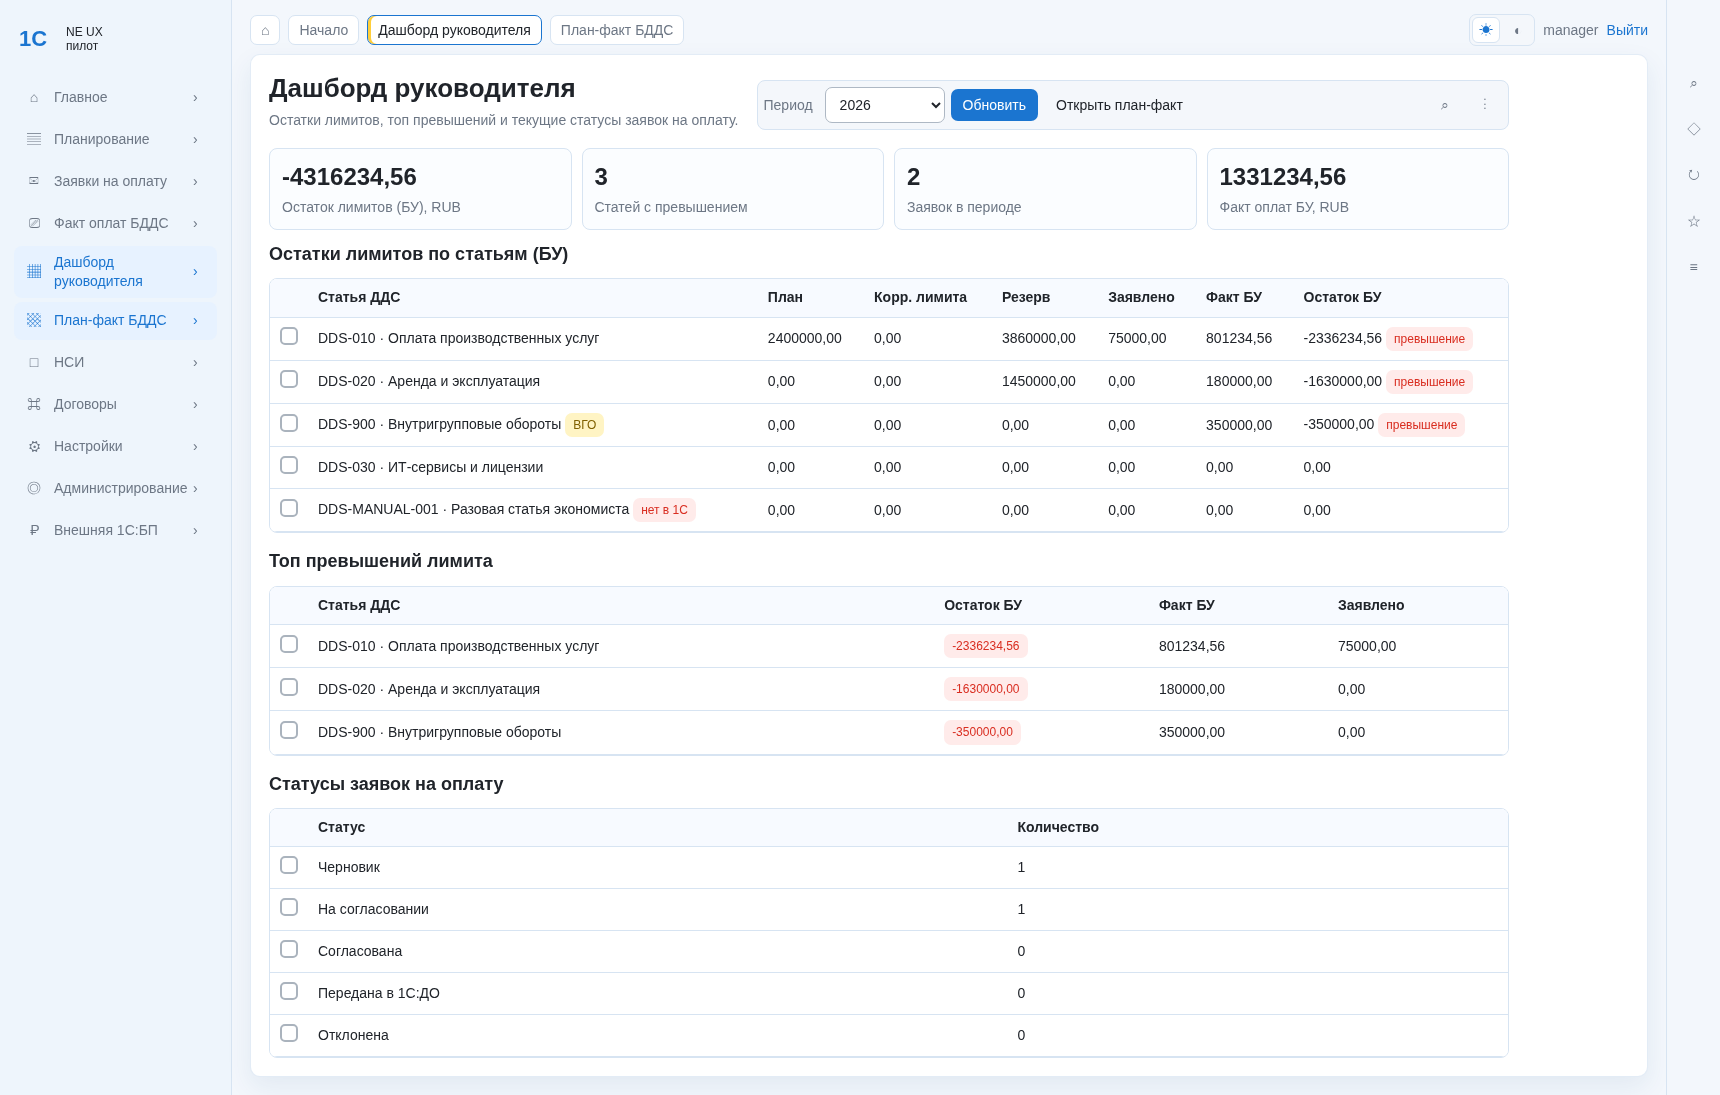
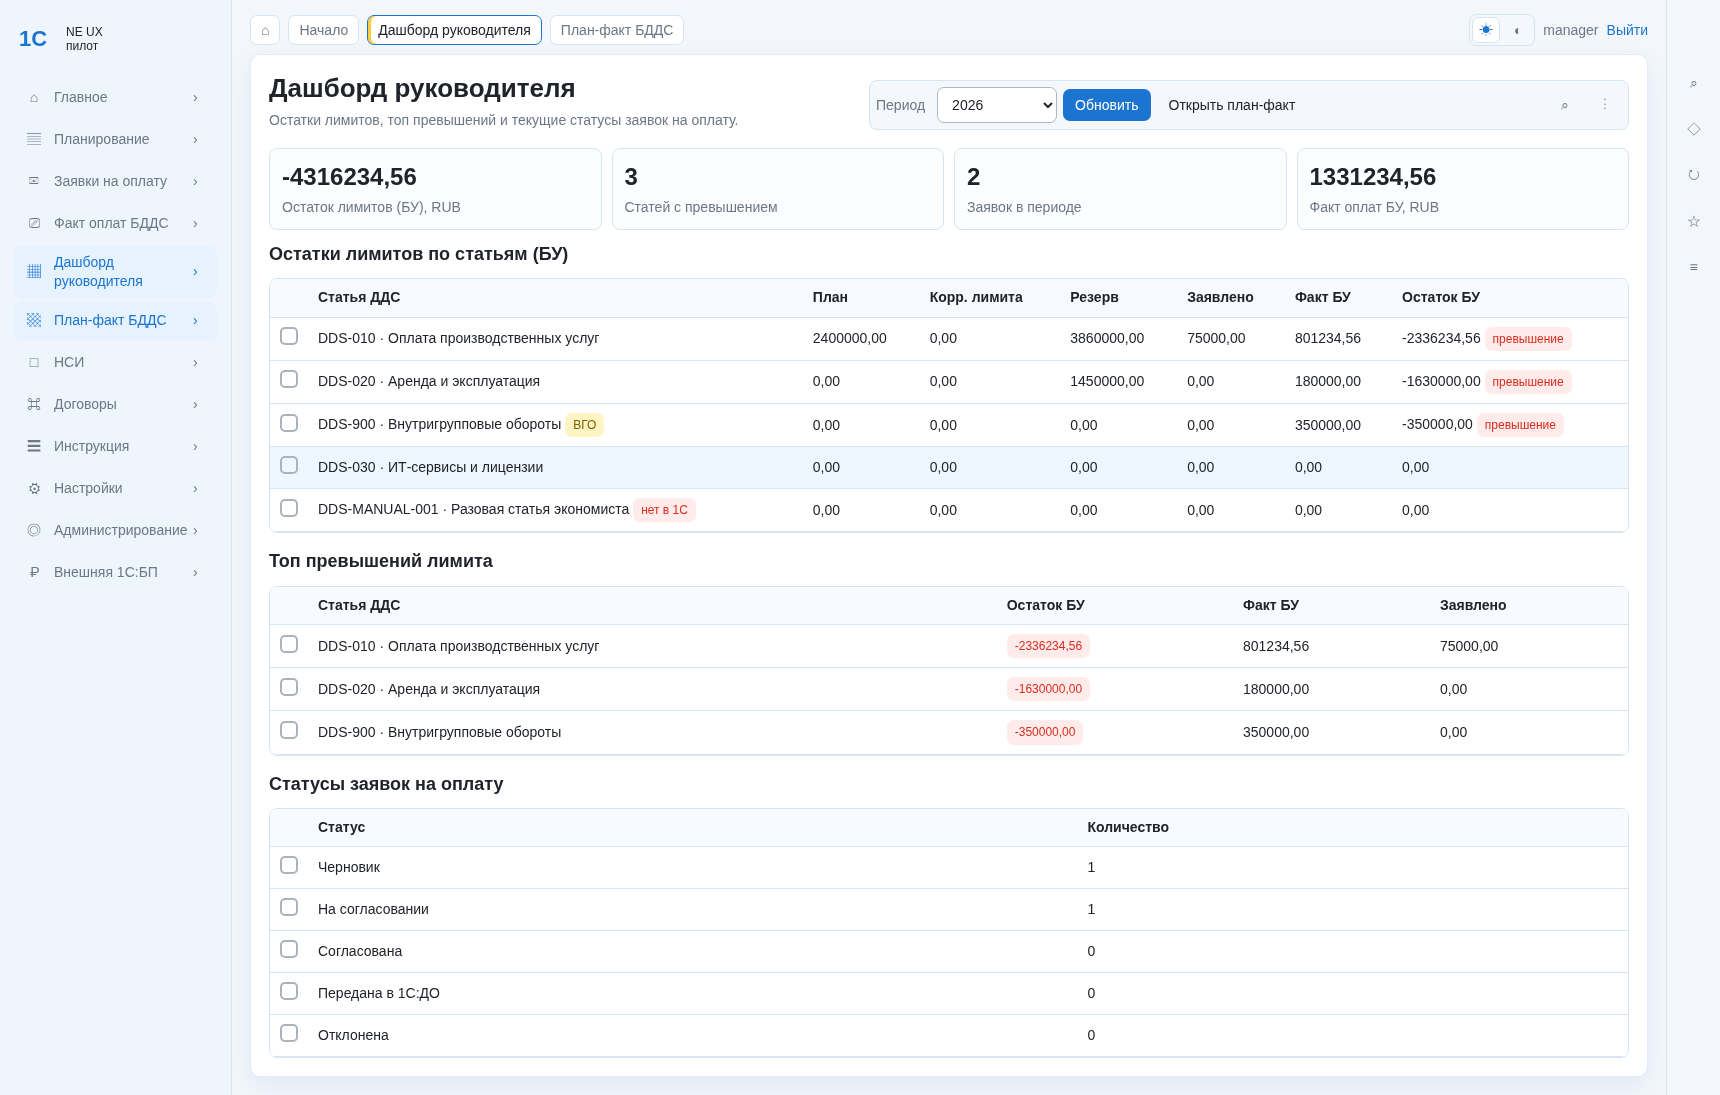
docs(guide): refresh user instruction for new full-width row layout

diff --git a/docs/user-guide/instruction.md b/docs/user-guide/instruction.md
@@ -1,7 +1,9 @@
 # Руководство пользователя и Use Case по ролям
 
+Актуальная версия инструкции для текущего UI (рядная компоновка экранов):
+формы и фильтры расположены в верхних блоках, реестры и таблицы — ниже, на полную рабочую ширину.
+
 Документ описывает работу в системе по ролям: `Администратор`, `Экономист`, `Руководитель`, `Бухгалтер`.
-Для каждого сценария указаны действия и ожидаемый результат.
 
 ## 1. Роли и границы доступа
 
@@ -14,7 +16,19 @@
 
 ---
 
-## 2. Общий сценарий входа (все роли)
+## 2. Как читать экран
+
+Для большинства разделов действует единый UX-паттерн:
+1. Верхняя строка: заголовок раздела и командная панель.
+2. Верхние панели: форма создания/редактирования или фильтры.
+3. Ниже: KPI-карточки.
+4. Нижний блок: таблица-реестр с действиями по строкам.
+
+Это позволяет быстро вносить изменения и сразу видеть результат в таблице без переключения между колонками.
+
+---
+
+## 3. Общий сценарий входа (все роли)
 
 ### UC-LOGIN-01: Вход в систему
 **Цель:** авторизоваться под своей ролью.
@@ -30,16 +44,16 @@
 
 ---
 
-## 3. Экономист
+## 4. Экономист
 
 ### UC-ECO-01: Создание плана/лимита
 **Предусловия:** пользователь вошел как `economist`.
 
 **Шаги:**
-1. В разделе `Планирование` задать период.
+1. В разделе `Планирование` в верхней форме задать период планирования.
 2. Указать годовую сумму.
-3. Нажать `Записать`.
-4. Для отправки на утверждение нажать `На утверждение` в строке черновика.
+3. Нажать `Записать` в командной панели.
+4. В таблице ниже отправить черновик на утверждение кнопкой `На утверждение`.
 
 **Ожидаемый результат:** план создается в статусе `Черновик`, после отправки — `На утверждении`.
 
@@ -49,11 +63,11 @@
 **Предусловия:** есть договор поставщика.
 
 **Шаги:**
-1. Выбрать тип заявки.
-2. Указать договор.
+1. В форме заявки выбрать тип.
+2. Указать договор поставщика.
 3. Заполнить назначение платежа.
 4. Нажать `Записать`.
-5. В таблице нажать `На согласование`.
+5. В реестре заявок (нижняя таблица) нажать `На согласование`.
 
 **Ожидаемый результат:** заявка переходит из `Черновик` в `На согласовании`.
 
@@ -61,21 +75,22 @@
 
 ### UC-ECO-03: Корректировка факта оплаты (БУ/НУ)
 **Шаги:**
-1. В строке факта изменить сумму.
-2. Указать причину изменения.
-3. Нажать `Записать`.
+1. В верхней панели выбрать фильтры периода и учета.
+2. В таблице факта изменить сумму по строке.
+3. Указать причину корректировки.
+4. Нажать `Записать`.
 
-**Ожидаемый результат:** создается новая версия корректировки, изменения отражаются в факте и в аудите.
+**Ожидаемый результат:** создается новая версия корректировки; изменения отражаются в факте и в аудите.
 
 ![UC-ECO-03](images/annotated/06_economist_payment_facts_adjust.png)
 
 ### UC-ECO-04: Работа с шаблонами отчета План-факт
 **Шаги:**
-1. Настроить фильтры отчета.
-2. Ввести имя шаблона.
+1. Настроить фильтры в верхней панели отчета.
+2. В блоке шаблонов ввести имя.
 3. Нажать `Сохранить шаблон`.
 4. Выбрать сохраненный шаблон.
-5. Нажать `Применить шаблон`.
+5. Нажать `Применить`.
 
 **Ожидаемый результат:** фильтры сохраняются как персональный шаблон экономиста и повторно применяются одним действием.
 
@@ -83,22 +98,22 @@
 
 ---
 
-## 4. Руководитель
+## 5. Руководитель
 
 ### UC-MGR-01: Согласование или отклонение заявки
 **Шаги:**
-1. Нажать `Согласовать` для заявки в статусе `На согласовании`.
-2. Для отклонения ввести комментарий причины.
-3. Нажать `Отклонить` при необходимости.
+1. Открыть `Заявки на оплату`.
+2. В таблице нажать `Согласовать` для заявки в статусе `На согласовании`.
+3. Для отклонения ввести комментарий и нажать `Отклонить`.
 
-**Ожидаемый результат:** заявка получает статус `Согласована` или `Отклонена`, комментарий фиксируется в карточке и в журнале.
+**Ожидаемый результат:** заявка получает статус `Согласована` или `Отклонена`, комментарий фиксируется в карточке и журнале.
 
 ![UC-MGR-01](images/annotated/04_manager_payment_approval.png)
 
 ### UC-MGR-02: Утверждение плана/корректировки лимита
 **Шаги:**
 1. Открыть раздел `Планирование`.
-2. В строке документа со статусом `На утверждении` нажать `Утвердить`.
+2. В реестре документов со статусом `На утверждении` нажать `Утвердить`.
 
 **Ожидаемый результат:** документ получает статус `Утвержден`.
 
@@ -108,7 +123,7 @@
 **Шаги:**
 1. Открыть `Дашборд руководителя`.
 2. Проверить KPI в верхнем блоке.
-3. Просмотреть статьи/позиции с риском перерасхода.
+3. Ниже просмотреть таблицы по остаткам, превышениям и статусам заявок.
 
 **Ожидаемый результат:** руководитель видит актуальную картину по лимитам, факту и статусам заявок.
 
@@ -116,14 +131,15 @@
 
 ---
 
-## 5. Бухгалтер (внешний контур)
+## 6. Бухгалтер (внешний контур)
 
 ### UC-ACC-01: Оплата договора во внешней системе
 **Предусловия:** пользователь вошел как `accountant`.
 
 **Шаги:**
-1. В строке договора указать сумму оплаты.
-2. Нажать `Оплатить`.
+1. Открыть `Внешняя 1С:БП`.
+2. В строке договора указать сумму оплаты.
+3. Нажать `Оплатить`.
 
 **Ожидаемый результат:** платеж проводится во внешнем контуре, в основной системе появляется факт оплаты (БУ/НУ) через mock-интеграцию.
 
@@ -131,34 +147,35 @@
 
 ---
 
-## 6. Администратор
+## 7. Администратор
 
 ### UC-ADM-01: Регистрация запроса на интеграцию
 **Шаги:**
-1. Заполнить название интеграции.
+1. В верхней форме заполнить название интеграции.
 2. Указать целевую систему.
 3. Описать задачу.
 4. Нажать `Создать заявку`.
 
-**Ожидаемый результат:** создается карточка запроса на интеграцию.
+**Ожидаемый результат:** создается карточка запроса на интеграцию в реестре ниже.
 
 ### UC-ADM-02: Обработка запроса на интеграцию
 **Шаги:**
-1. В строке заявки выбрать новый статус.
-2. Нажать `Сохранить`.
+1. В таблице заявки выбрать новый статус.
+2. При необходимости добавить комментарий администратора.
+3. Нажать `Сохранить`.
 
-**Ожидаемый результат:** статус и комментарий администратора обновлены, заявка двигается по жизненному циклу.
+**Ожидаемый результат:** статус и комментарий обновлены, заявка двигается по жизненному циклу.
 
 ![UC-ADM-01/02](images/annotated/10_admin_integration_requests.png)
 
 ---
 
-## 7. Контрольный чек-лист приемки (для обучения)
+## 8. Контрольный чек-лист приемки (для обучения)
 
 1. Экономист создает и отправляет заявку на оплату.
-2. Руководитель согласует/отклоняет с комментарием.
+2. Руководитель согласует/отклоняет заявку с комментарием.
 3. Бухгалтер проводит оплату во внешнем контуре.
 4. Экономист видит отражение факта и при необходимости корректирует его.
-5. Экономист сохраняет шаблон отчета и повторно применяет.
+5. Экономист сохраняет и повторно применяет шаблон отчета.
 
-Если все шаги выполняются по скриншотам выше и статусы меняются ожидаемо — пользовательская цепочка работает корректно.
+Если шаги выполняются по скриншотам и статусы меняются ожидаемо, пользовательская цепочка работает корректно.
